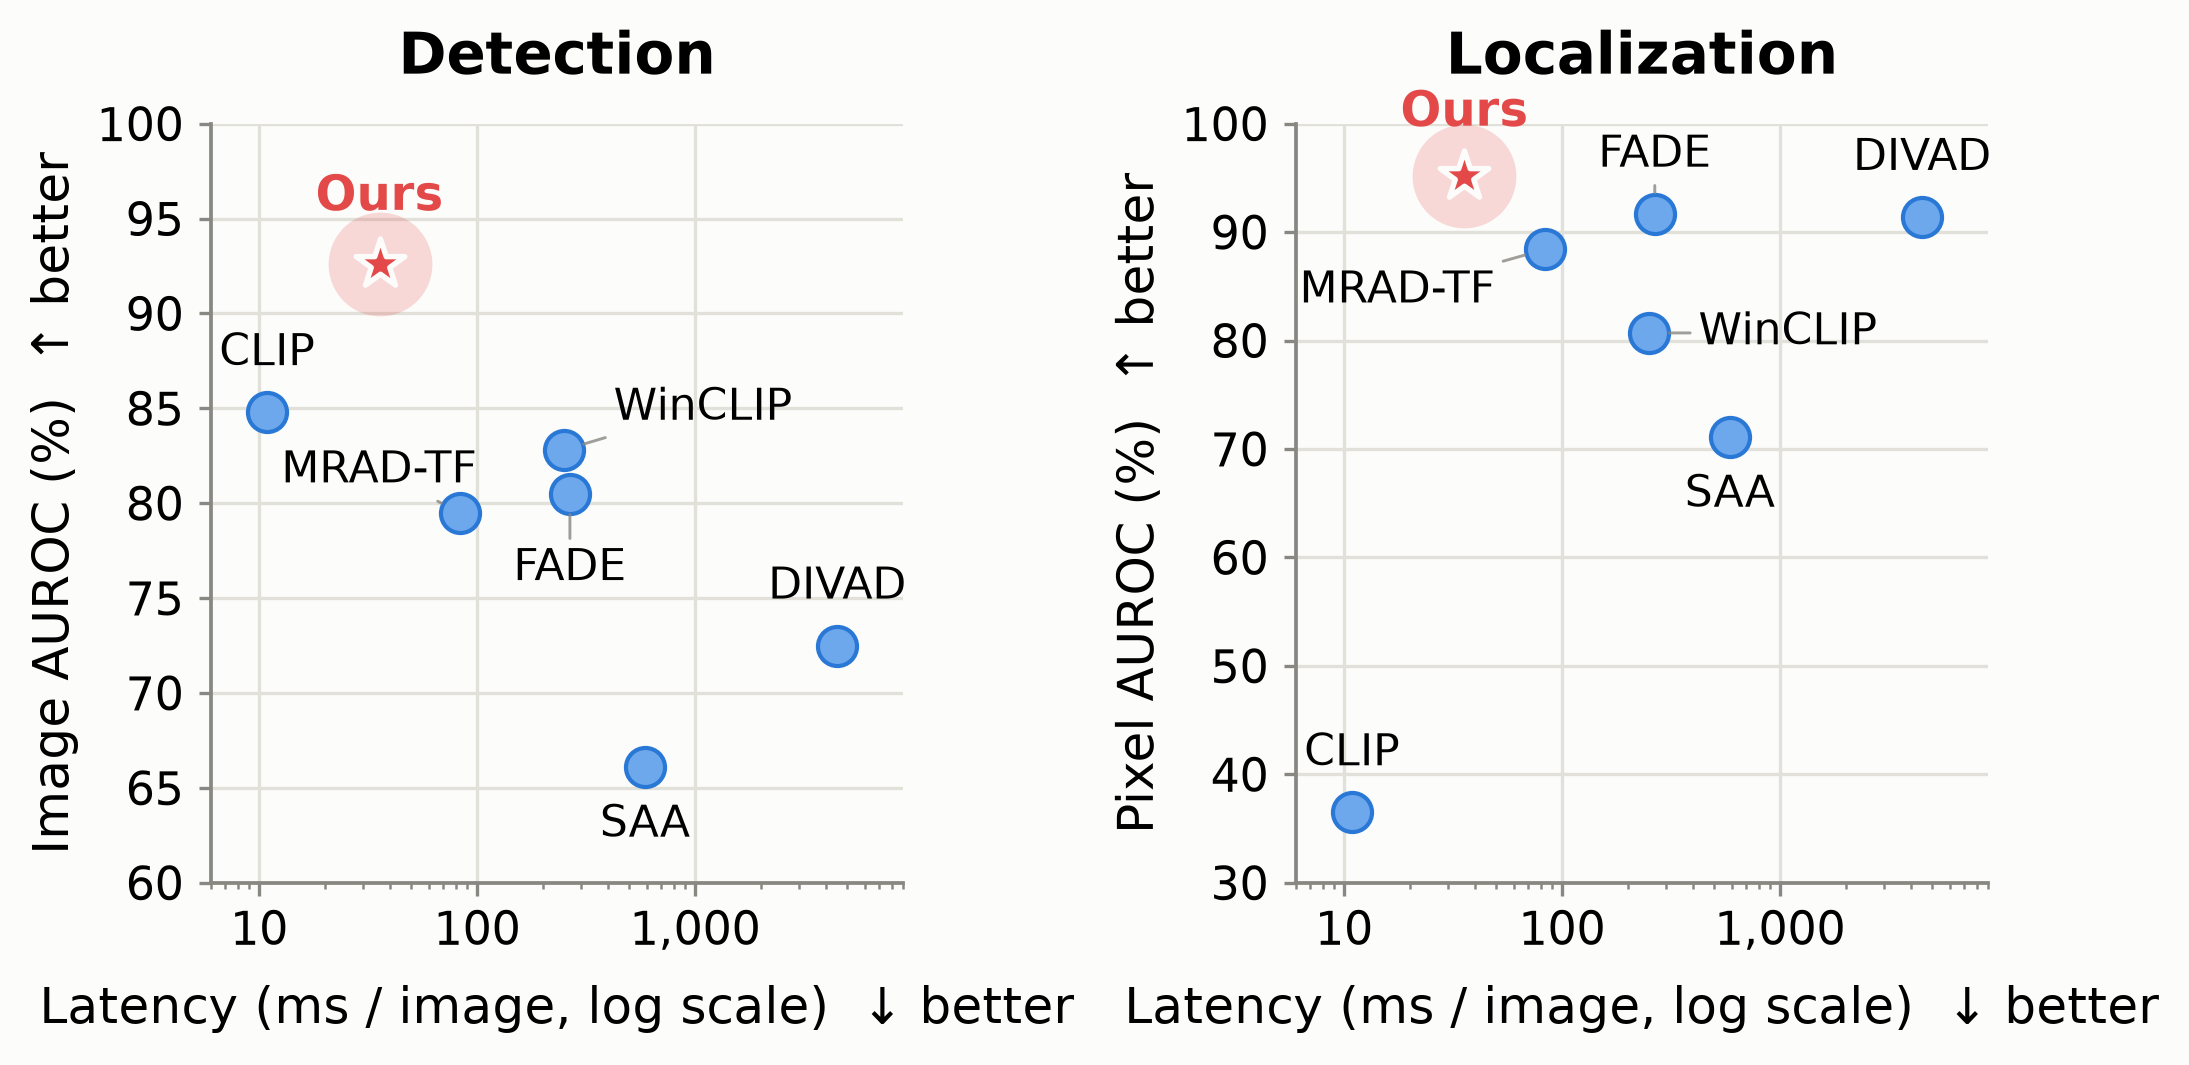
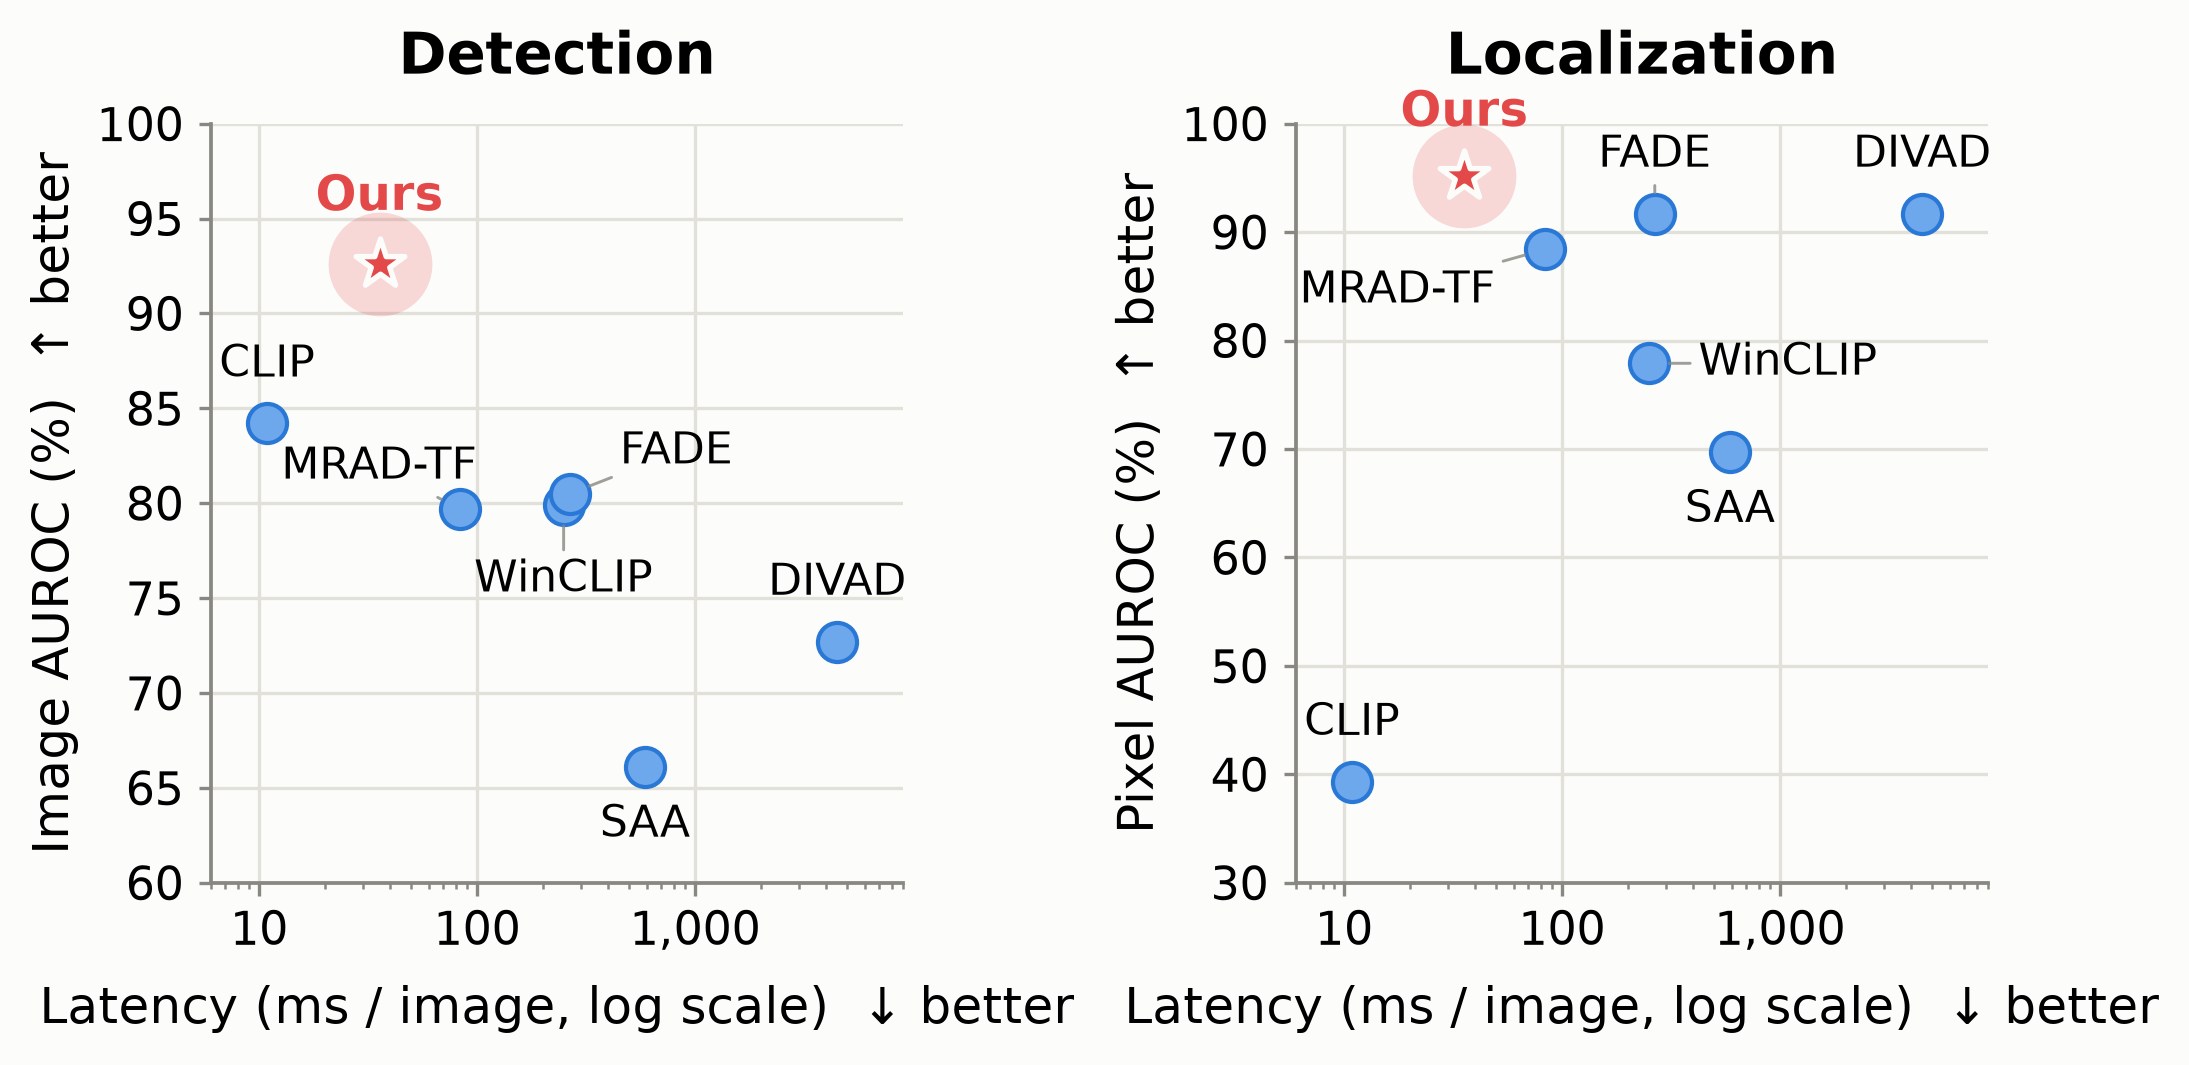
Updating the speed-accuracy plot with revised camera-ready baseline numbers.

diff --git a/figures/make_teaser_speed_accuracy.py b/figures/make_teaser_speed_accuracy.py
@@ -12,8 +12,8 @@ _HERE = os.path.dirname(os.path.abspath(__file__))
 # Data
 # ---------------------------------------------------------------------------
 methods = ["CLIP", "SAA", "WinCLIP", "FADE", "DIVAD", "MRAD-TF", "Ours"]
-i_auroc = [84.8, 66.1, 82.8, 80.5, 72.5, 79.5, 92.6]   # image-level, industrial mean
-p_auroc = [36.5, 71.1, 80.7, 91.7, 91.4, 88.4, 95.2]   # pixel-level, industrial mean
+i_auroc = [84.2, 66.1, 79.9, 80.5, 72.7, 79.7, 92.6]   # image-level, industrial mean
+p_auroc = [39.3, 69.7, 77.9, 91.7, 91.7, 88.4, 95.2]   # pixel-level, industrial mean
 latency = [10.9, 588.5, 249.4, 266.5, 4490.0, 83.4, 35.7]   # ms / image
 
 ACCENT = "#e34948"       # accent color for "Ours"
